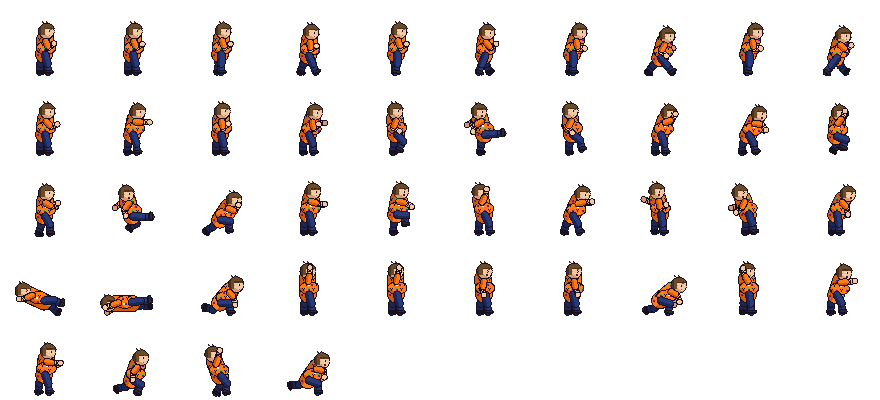
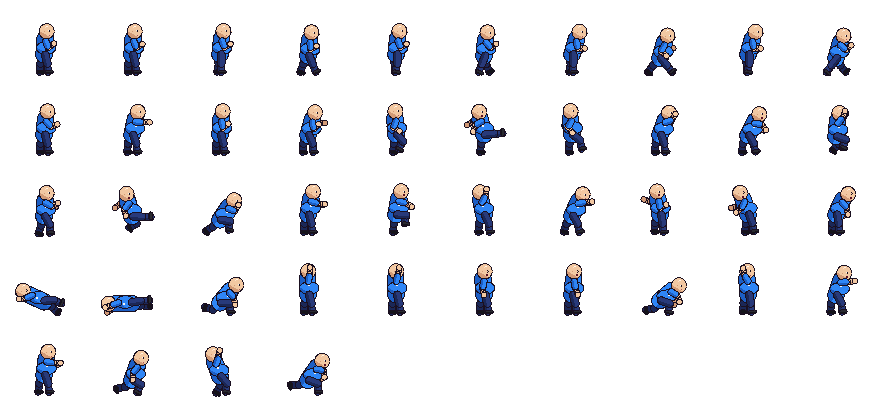
Will: bald head with shine highlight and plain bright blue shirt; remove orange Halloween shirt/pattern and orange stat color (sprite, portraits, select card, title, tally)

diff --git a/src/data.js b/src/data.js
@@ -7,7 +7,7 @@ export const HEROES = {
   kim: { name: 'KIM', role: 'Fast', blurb: 'Quick combos, lighter hits.', hp: 90, walk: 88, depth: 60, run: 170, jump: 255, power: 0.78, reach: 0.95,
     combo: ['atk1', 'atk2', 'atk1', 'atk2', 'atk4'], special: 'WHIRLWIND KICK', stats: [2, 5, 2, 2], color: '#ff5a3a', comboGap: 0.85 },
   will: { name: 'WILL', role: 'Power', blurb: 'Slow, hits hard, big throws.', hp: 120, walk: 58, depth: 42, run: 128, jump: 225, power: 1.38, reach: 1.0,
-    combo: ['atk1', 'atk2', 'atk4'], special: 'BODY SLAM', stats: [5, 2, 3, 5], color: '#ff7a18', throwK: 1.45, grabR: 1.3 },
+    combo: ['atk1', 'atk2', 'atk4'], special: 'BODY SLAM', stats: [5, 2, 3, 5], color: '#3a92ff', throwK: 1.45, grabR: 1.3 },
   jackie: { name: 'JACKIE', role: 'Reach', blurb: 'Long reach, big jumps, strong dash.', hp: 100, walk: 74, depth: 50, run: 160, jump: 290, power: 1.0, reach: 1.3,
     combo: ['atk1', 'atk2', 'atk3'], special: 'CLIPBOARD SPIN', stats: [3, 3, 5, 3], color: '#9a5ae0', dashK: 1.4 },
 };

diff --git a/sw.js b/sw.js
@@ -1,7 +1,7 @@
 // Home-screen app support (n64-suite games). Network first, always: online play never sees a stale file. The small
 // code / data files (html, js, css, json, webmanifest) are kept in a cache only so the app can still open offline.
 // It also gives Chrome the fetch handler it wants before it offers "Install app" (beforeinstallprompt).
-const CACHE = 'nbd2-app-v2';
+const CACHE = 'nbd2-app-v3';
 const SMALL = /\.(?:html|js|css|json|webmanifest)$|\/$/;
 self.addEventListener('install', () => self.skipWaiting());
 self.addEventListener('activate', (e) => e.waitUntil(self.clients.claim()));

diff --git a/tools/chars.py b/tools/chars.py
@@ -42,22 +42,6 @@ def gown_check(img, base=GOWN, check=GOWN_CHECK, period=3):
     return img
 
 
-def halloween(S, T, hip, neck, lean, b):
-    """Flashy Halloween shirt: purple pumpkins and black bats on orange, on a grid that moves with the body."""
-    ox, oy = T(hip)
-    ox, oy = int(ox), int(oy)
-    cols = (b["shirt"], b["shirt_s"])
-    for gy in range(-int(b["torso"]) - 4, 4, 5):
-        for gx in range(-12, 13, 5):
-            x, y = ox + gx + (2 if (gy // 5) % 2 else 0), oy + gy
-            if not (0 < y < S.h - 2 and 0 < x < S.w - 2) or S.p[y][x] not in cols or S.p[y + 1][x] not in cols:
-                continue
-            if ((gx // 5) + (gy // 5)) % 2 == 0:  # purple pumpkin with a green stem
-                S.set(x, y, "#6a1ea8"); S.set(x + 1, y, "#6a1ea8"); S.set(x, y + 1, "#6a1ea8"); S.set(x + 1, y + 1, "#4a1078"); S.set(x, y - 1, "#3ac048")
-            else:  # black bat
-                S.set(x, y, INK); S.set(x - 1, y - 1, INK); S.set(x + 1, y - 1, INK); S.set(x, y + 1, INK)
-
-
 def gown_dots(S, T, hip, neck, lean, b):
     for k in range(5):
         p = add(hip, vec(180 - lean, b["torso"] * (0.1 + k * 0.2)))
@@ -80,6 +64,15 @@ def stripes(S, T, hip, neck, lean, b):
         x, y = T((p[0] + b["torso_w"] / 2 - 1.5, p[1]))
         if S.p[int(y)][int(x)] in (b["shirt"], b["shirt_s"]):
             S.set(int(x), int(y), "#f0f0f4")
+
+
+WILL_BLUE = ("#2f86f6", "#1c5ec4")   # Will: plain bright blue shirt (Bill, 2026-10-03)
+
+
+def bald_shine(S, hc, r, b, pose):
+    """Clean bald head (skin tone only) with a small shine highlight on the crown."""
+    x, y = int(hc[0] + r * 0.05), int(hc[1] - r * 0.72)
+    S.set(x, y, "#fff4e6"); S.set(x + 1, y, "#fff4e6"); S.set(x - 1, y + 1, "#ffe2c8")
 
 
 def ponytail(S, hc, r, b, pose):
@@ -210,8 +203,8 @@ def bodies():
                          hair_c="#d8462a", hair_s="#9c2c1a", hair=hair_cap(top=-0.1, back=0.4), hair_back=ponytail,
                          freckles="#d08a6a", shoe="#ffffff", shoe_s="#b8c2d0", mouth="#c0505e")
     B["will"] = hero_body(thigh=9, shin=8.5, torso=16, head=7, uarm=7, farm=7, arm_w=4.2, leg_w=5.8, torso_w=15.5, belly=3, fist=2.3,
-                          skin=sk["light"][0], skin_s=sk["light"][1], hair_c="#6b4a2a", hair_s="#4a3018", hair=hair_cap(top=-0.3, back=0.3, grow=0.7, spikes=2), shirt="#ff7a18", shirt_s="#d05a0c", sleeve="#ff7a18", sleeve_s="#d05a0c", vneck=False, steth=True,
-                          pattern=halloween, shoe="#2a2a30", shoe_s="#14141a", badge="#f4f4f4", sleeve_len=0.7)
+                          skin=sk["light"][0], skin_s=sk["light"][1], hair=bald_shine, shirt=WILL_BLUE[0], shirt_s=WILL_BLUE[1], sleeve=WILL_BLUE[0], sleeve_s=WILL_BLUE[1], vneck=False, steth=True,
+                          shoe="#2a2a30", shoe_s="#14141a", badge="#f4f4f4", sleeve_len=0.7)
     B["jackie"] = hero_body(thigh=12, shin=11.5, torso=17.5, head=6.4, uarm=8.5, farm=8.5, torso_w=11, arm_w=3.3, leg_w=4.7, skin=sk["tan"][0], skin_s=sk["tan"][1],
                             hair_c="#4a2a18", hair_s="#2e180c", hair=hair_cap(top=0.05, back=0.2, grow=2.2, bumps=1.3, fringe=0, seed=2),
                             shoe="#9a5ae0", shoe_s="#6a34a8", mouth="#b04a5a")

diff --git a/tests/will.py b/tests/will.py
@@ -1,0 +1,24 @@
+# Will's look check: title, hero select (cursor on Will), in-game + HUD portrait, floor-cleared tally portrait.
+import time
+from playwright.sync_api import sync_playwright
+errs = []
+def key(pg, k): pg.keyboard.down(k); time.sleep(0.1); pg.keyboard.up(k); time.sleep(0.15)
+with sync_playwright() as p:
+    b = p.chromium.launch(); pg = b.new_page(viewport={'width': 1280, 'height': 720})
+    pg.on('console', lambda m: errs.append(f'{m.type}: {m.text}') if m.type in ('error', 'warning') else None)
+    pg.on('pageerror', lambda e: errs.append(f'PAGEERROR: {e}'))
+    pg.goto('http://localhost:8731/'); pg.wait_for_function('window.__loaded === true'); time.sleep(1)
+    pg.screenshot(path='tests/out/w_title.png')
+    key(pg, 'Enter'); time.sleep(0.4); key(pg, 'KeyD'); key(pg, 'KeyD'); time.sleep(0.3)
+    print('cursor on', pg.evaluate("__nbd.game.sel.p[0].cur"), '(2 = Will)')
+    pg.screenshot(path='tests/out/w_select.png')
+    key(pg, 'KeyJ'); time.sleep(4.5)
+    print('playing as', pg.evaluate("__nbd.W.heroes[0].id"), pg.evaluate("__nbd.W.heroes[0].sheet"))
+    pg.keyboard.down('KeyD'); time.sleep(1.2); pg.keyboard.up('KeyD'); key(pg, 'KeyJ'); key(pg, 'KeyJ')
+    pg.screenshot(path='tests/out/w_game.png')
+    pg.goto('http://localhost:8731/?zone=5&bot=1&god=1&hero=will'); pg.wait_for_function('window.__loaded === true'); time.sleep(4)
+    pg.evaluate('__nbd.W.boss.hp = 3; __nbd.W.boss.phase = 2')
+    pg.wait_for_function("__nbd.game.scene === 'tally'", timeout=40000); time.sleep(3.5)
+    pg.screenshot(path='tests/out/w_tally.png')
+    b.close()
+print('\n'.join(errs[:20]) or 'no console errors')

diff --git a/AGENTS.md b/AGENTS.md
@@ -8,13 +8,13 @@ A 1990s arcade beat 'em up in the spirit of Golden Axe and the TMNT and Simpsons
 their way through hospital floors full of comedic patients. Plain HTML5 Canvas 2D plus ES modules. No build step
 and no dependencies at runtime. Live on GitHub Pages: https://unclebill-spec.github.io/nicks-bad-day-2/
 
-## Current state (2026-10-03, v0.2)
+## Current state (2026-10-03, v0.2.1)
 - **Level 1 "Floor 3: Med-Surg" is fully playable** from the title screen through to the tally and the "Floor 4: Radiology" teaser.
   The level is 3560 px wide with 6 camera-lock zones: 5 wave zones, then the boss dayroom.
 - **4 heroes:**
   - Nick: balanced, Crash Cart special.
   - Kim: fast, Whirlwind Kick.
-  - Will: power, Body Slam, big throws.
+  - Will: power, Body Slam, big throws. He is bald (skin-tone head with a shine) in a plain bright blue shirt, and his stat color is blue; there's no orange or Halloween look anywhere.
   - Jackie: reach, Clipboard Spin, strong jump and dash.
 - **Moves:** combos with a finisher, jump and jump kick, run (double-tap or Shift/RB) and dash attack, back attack (Attack+Jump),
   auto-grab, then knee or throw (throws hit other patients), a special that costs 8 HP, and the Code Blue super when the meter is full.
@@ -63,6 +63,7 @@ python3 tests/moves.py      # every hero: jump, kick, special cost, super, run/d
 python3 tests/pad.py        # mocked gamepad: menus, select, move, attack, pause; 2P keyboard + pad
 python3 tests/touch.py      # emulated Pixel phone landscape: taps, floating joystick, buttons, pause, rotate prompt
 python3 tests/flow.py       # boss defeat -> tally -> teaser -> title; continue; game over -> high scores
+python3 tests/will.py       # Will's look on title, select, in-game HUD, tally
 python3 tests/patients.py   # all patient types + random looks, elite syringe/urinal throws, splash + puddle, KO drops, new pickups
 python3 tests/before_after.py <old art dir> docs/art_before_after.png   # art comparison sheet
 python3 tests/shots.py "autostart=1&bot=1&god=1" 240 full 1280 720 6   # whole level with the bot

diff --git a/CHANGELOG.md b/CHANGELOG.md
@@ -2,6 +2,13 @@
 
 All notable changes to Nick's Very Bad, Terrible Bad Day Part II. Dates are America/New_York.
 
+## 2026-10-03: v0.2.1 "Will's new look" (Bill's feedback)
+- **Will is now bald.** He has a clean skin-tone head with a small shine highlight on the crown, and his plain bright blue shirt (`WILL_BLUE` in `tools/chars.py`) replaces the orange Halloween shirt.
+- **The whole orange/pumpkin look is gone:** the `halloween` pattern is deleted from `tools/chars.py`, and Will's hero-select stat-bar and role color is now blue (`#3a92ff`).
+- **Updated everywhere Will appears:** every animation frame (`art/will.png`), the hero-select card, the HUD and tally portraits (`face_will` / `face_will_hurt`), and the title screen.
+- Nothing else in the game changed.
+- **Before/after:** `docs/will_before_after.png`. New test `tests/will.py` covers title, select, in-game and tally with Will. Service worker cache bumped to `nbd2-app-v3`.
+
 ## 2026-10-03: v0.2 "Gown Check" (Bill's art + gameplay notes)
 - **Patients:**
   - Every patient now wears a traditional checked hospital gown, in pale green or faded olive, with yellow grip socks.
